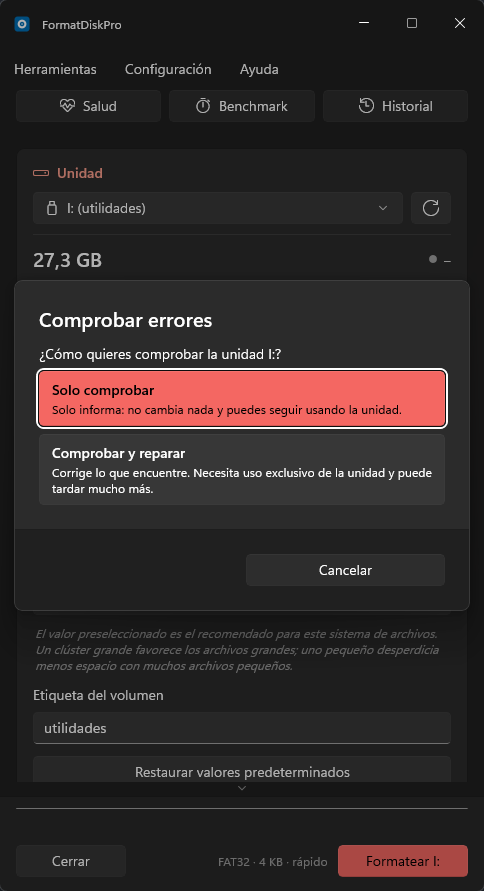
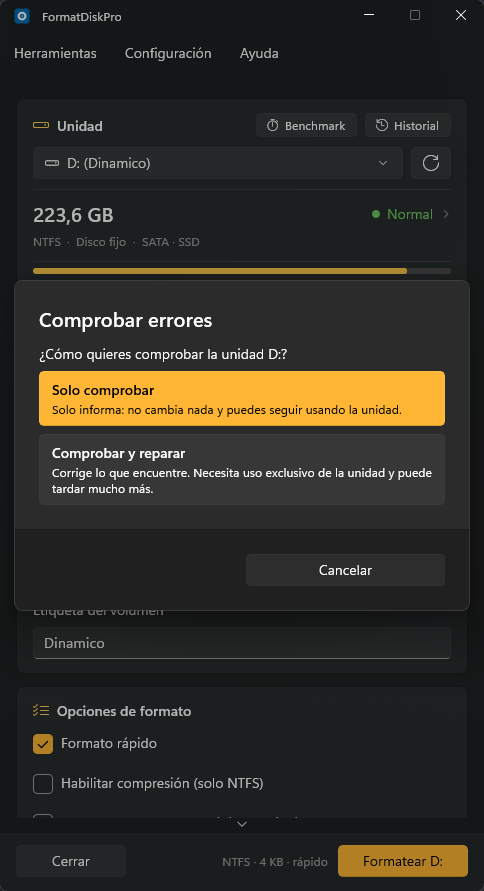
docs: README y capturas al día con la crítica de diseño
Las doce capturas del README, regeneradas con la interfaz nueva (la
confirmación y Reinicializar, sobre la USB de pruebas). El texto cuenta la
confirmación que enseña el disco y lo que contiene, el historial en tu idioma
y dónde están ahora Salud, Benchmark e Historial.

diff --git a/README.md b/README.md
@@ -60,6 +60,8 @@ máquina: la app usa el tuyo. Ninguna captura está editada: las genera
 **Seguridad**
 - El **disco de sistema** sale como `[Protegido]` y se bloquea dos veces: al listar y al iniciar.
 - Para confirmar hay que **escribir la letra de la unidad**, y el botón nombra el destino (*Formatear H:*).
+  La confirmación enseña el disco —modelo, tamaño, conexión y tipo— y **cuántos datos contiene**, para que
+  se note si no es el que esperabas.
 - Detecta la **protección de escritura** antes de formatear y ofrece quitarla.
 - **Reinicializar unidad** (solo extraíbles) rehace una USB con particiones raras o RAW. Opcionalmente crea
   una FAT32 pequeña primero (1–32 GB, p. ej. para actualizar una BIOS) y deja el resto sin asignar o en
@@ -81,7 +83,8 @@ máquina: la app usa el tuyo. Ninguna captura está editada: las genera
   formato rápido y el completo en ReFS, que ejecuta Windows); velocidad y tiempo restante en las que
   escriben el espacio libre (verificar capacidad y borrado seguro). Aviso (sonido + barra de tareas) al
   terminar si estás en otra ventana.
-- **Historial** con búsqueda, filtros y exportación a CSV.
+- **Historial** en tu idioma, con búsqueda, filtros y exportación a CSV: cada entrada dice qué pasó y sobre
+  qué unidad, y lo que borró un disco o falló destaca sobre lo demás.
 - **Actualizaciones** desde GitHub Releases con sus notas, y verificación del instalador antes de ejecutarlo.
 
 Lo que viene, en la [hoja de ruta](ROADMAP.md); lo que trajo cada versión, en el [changelog](CHANGELOG.md).
@@ -113,8 +116,9 @@ La app busca versiones nuevas al arrancar (desactivable en *Configuración*) y e
 3. Elige sistema de archivos, tamaño de clúster y etiqueta, o aplica un **preset**.
 4. Pulsa **Formatear _X_:**, escribe la letra de la unidad y confirma.
 
-*Salud*, *Benchmark* e *Historial*, que no escriben nada, están a un clic bajo el menú. Lo que borra está
-en *Herramientas*, siempre con confirmación.
+*Benchmark* e *Historial*, que no escriben nada, están a un clic en la cabecera de la tarjeta de unidad, y
+la salud de la unidad (*● Normal*) abre su detalle S.M.A.R.T. al pulsarla. Lo que borra está en
+*Herramientas*, siempre con confirmación.
 
 | Menú | Opciones |
 |---|---|
